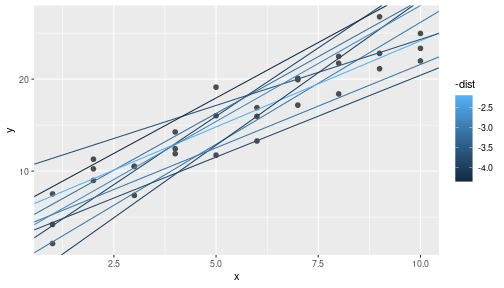
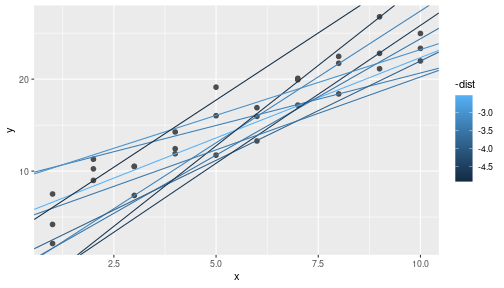
ultimos cambios

diff --git a/models/23-pres.html b/models/23-pres.html
@@ -58,9 +58,8 @@ En este capítulo usaremos el paquete modelr que tiene las funciones de modelado
 
 
 ```r
-library(tidyverse)
-
-library(modelr)
+*library(tidyverse)
+*library(modelr)
 options(na.action = na.warn)
 ```
 
@@ -176,18 +175,18 @@ modelos
 
 ```
 ## # A tibble: 250 x 3
-##       a1     a2  dist
-##    &lt;dbl&gt;  &lt;dbl&gt; &lt;dbl&gt;
-##  1 12.2  -1.16  13.5 
-##  2  6.28 -3.85  34.8 
-##  3 23.5   4.46  33.3 
-##  4 36.5   3.61  41.1 
-##  5  3.27 -3.11  33.0 
-##  6  9.23  1.86   4.51
-##  7 12.9  -2.04  18.3 
-##  8 31.1  -2.38  13.1 
-##  9 17.6  -0.628  8.10
-## 10 35.0   2.74  34.7 
+##        a1     a2  dist
+##     &lt;dbl&gt;  &lt;dbl&gt; &lt;dbl&gt;
+##  1  14.7  -1.76  15.3 
+##  2 -11.0   4.75   8.04
+##  3   1.54 -4.07  40.4 
+##  4  20.4  -0.127  7.81
+##  5 -15.3  -3.09  50.1 
+##  6  34.0   4.54  44.1 
+##  7  -1.25  2.87   3.32
+##  8  24.2  -2.45  14.0 
+##  9   6.00 -0.457 14.2 
+## 10  18.5   1.24  10.3 
 ## # … with 240 more rows
 ```
 
@@ -243,7 +242,7 @@ ggplot(sim1, aes(x, y)) +
 
 ---
 
-### Conclusión
+### `optim()` 
 
 De forma iterativa se puede hacer la cuadrícula más y más fina hasta reducir los resultados al mejor modelo.
 
@@ -277,12 +276,12 @@ No te preocupes demasiado acerca de los detalles de cómo funciona optim(). La i
 Existe otro enfoque que podemos usar para este modelo, debido a que es un caso especial de una familia más amplia: los modelos lineales. Un modelo lineal es de la forma y = a_1 + a_2 * x_1 + a_3 * x_2 + ... + a_n * x_(n+1). Este modelo simple es equivalente a un modelo lineal generalizado en el que n tiene valor 2 y x_1 es x. R cuenta con una herramienta diseñada especialmente para ajustar modelos lineales llamada lm(). lm() tiene un modo especial de especificar la familia del modelo: las fórmulas. Las fórmulas son similares a y ~ x, que lm() traducirá a una función de la forma y = a_1 + a_2 * x. Podemos ajustar el modelo y mirar la salida:
 
 ---
-# Usando la función lm
+# Usando la función `lm()` 
 
 
 ```r
-sim1_mod &lt;- lm(y ~ x, data = sim1)
-coef(sim1_mod)
+*sim1_mod &lt;- lm(y ~ x, data = sim1)
+*coef(sim1_mod)
 ```
 
 ```
@@ -292,7 +291,7 @@ coef(sim1_mod)
 
 ---
 
-## Visualizando modelos
+## Visualizando modelos `data_grid()` 
 
 
 ```r
@@ -320,10 +319,11 @@ grid
 
 ---
 
+## `add_prediction()` 
 
 ```r
 grid &lt;- grid %&gt;%
-  add_predictions(sim1_mod)
+* add_predictions(sim1_mod)
 grid
 ```
 
@@ -370,7 +370,7 @@ class: center, middle
 
 ---
 
-## add_residuals()
+## `add_residuals()` 
 Notar que usamos __el data frame original y no una grilla manufacturada.__´ Esto es porque para calcular los residuos se necesitan los valores de “y”.
 
 
@@ -399,7 +399,7 @@ sim1
 ```
 
 ---
-## Polígono de frecuencias
+## Polígono de frecuencias `geom_freqpoly()` 
 
 Existen diferentes formas de entender qué nos dicen los residuos respecto del modelo. Una forma es dibujar un polígono de frecuencia que nos ayude a entender cómo se propagan los residuos:
 
@@ -519,7 +519,7 @@ class: center, middle
 ---
 
 
-## Variables categóricas
+## Variables categóricas 
 
 
 Generar una función a partir de una fórmula es directo cuando el predictor es una variable continua, pero las cosas son más complicadas cuando el predictor es una variable categórica. Imagina que tienes una fórmula como y ~ sexo, donde el sexo puede ser hombre o mujer. No tiene sentido convertir a una fórmula del tipo y = x_0 + x_1 * sexo debido a que sexo no es un número - ¡no se puede multiplicar! En su lugar, lo que R hace es convertir a y = x_0 + x_1 * sexo_hombre donde sexo_hombre tiene valor 1 si sexo corresponde a hombre y cero a mujer:
@@ -653,7 +653,7 @@ Para visualizar estos modelos necesitamos dos nuevos trucos:
 2. Para generar predicciones de ambos modelos simultáneamente, podemos usar __gather_predictions()__ que incorpora cada predicción como una fila. El complemento de __gather_predictions()__ es __spread_predictions()__ que incluye cada predicción en una nueva columna.
 
 ---
-
+## `gather_predictions()` 
 Esto combinado nos da:
 
 

diff --git a/models/24-pres.html b/models/24-pres.html
@@ -785,7 +785,7 @@ vuelos_por_dia %&gt;%
     geom_line() +
     geom_point()
 ```
-
+    
 
 ---
 ![](24-pres_files/figure-html/unnamed-chunk-40-1.png)&lt;!-- --&gt;
